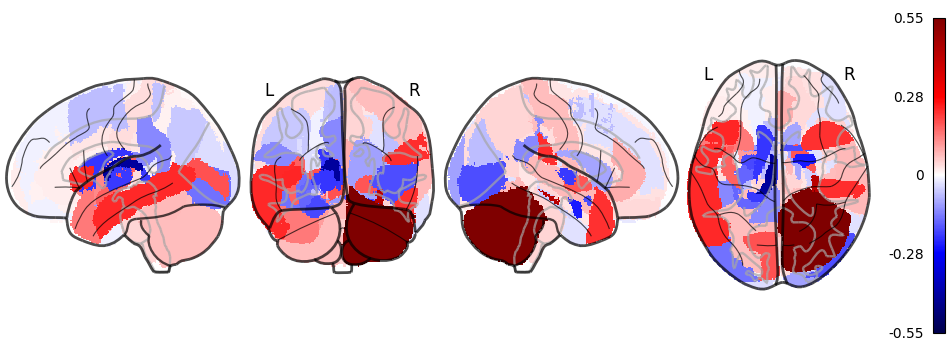
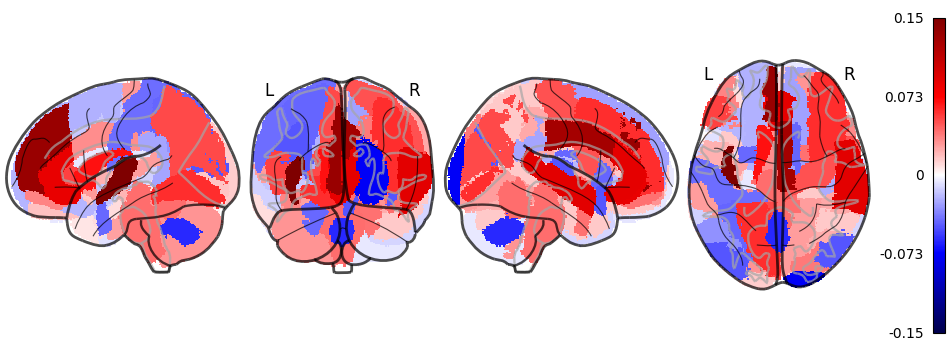
Readme updates and required data files

diff --git a/run_classification.py b/run_classification.py
@@ -563,15 +563,15 @@ def main():
     parser.add_argument(
         "--model", 
         required=False, 
-        default="extratrees",
-        choices=["lgbm", "extratrees"], 
-        help="Model family to load")
+        default="lgbm",
+        choices=["lgbm",], 
+        help="Model family to load (for now only lgbm works)")
     parser.add_argument(
         "--GM_thrs", 
         required=False, 
         default=False,
         type=str2bool, 
-        help="Use thresholded GM values (True/False)")
+        help="Use thresholded GM values (True/False). Should match the input csv if subject-per-row format.")
     parser.add_argument(
         "--thrs_target",
         required=False,

diff --git a/README.md b/README.md
@@ -1,165 +1,113 @@
-# Project README
+# Neurodegeneration Classification Pipeline
 
-Minimal, functional docs for the **current** scripts.
+This repository exposes a light MLOps pipeline for predicting Alzheimer’s disease probability from region-level volumetric CSVs and producing SHAP-based explanations. Two entry points matter:
 
----
+* `run_classification.py` – loads a pretrained classifier, aligns features, predicts the AD probability, and writes the full set of artefacts needed for downstream inference.
+* `make_shap_graphs.py` – regenerates SHAP glass-brain and waterfall plots from the saved prediction folders.
 
-## 1) Setup (venv + requirements)
-
-```bash
-python3.12 -m venv .venv
-# macOS/Linux
-source .venv/bin/activate
-python -V # should print 3.12.x
-
-python -m pip install -U pip setuptools wheel
-pip install -r requirements.txt
-pip check
-```
-
-> Make sure you run the scripts from an activated virtual environment.
+Both scripts support either **region-per-row** CSVs (long format: one row per region) or **subject-per-row** CSVs (wide format) containing a `PR_number` column.
 
 ---
 
-## 2) Input CSV (per‑region rows for one individual)
+## Typical workflow
 
-An example file is provided at **`data/seg_example.csv`**. Each row is **one brain region** for the **same subject**.
+1. **Create and activate a Python 3.12 virtual environment**
+   ```bash
+   python3.12 -m venv .venv
+   source .venv/bin/activate  # macOS/Linux
+   python -V                  # should print 3.12.x
 
-Required columns:
+   pip install -U pip setuptools wheel
+   pip install -r requirements.txt
+   ```
 
-* `name` — region name (string)
-* `index` — region index / id (int)
-* `GMvalues_unthresholded` — numeric value per region (float)
-* `GMvalues_thresholded` — numeric value per region (float)
+2. **Run the classifier**
+   ```bash
+   python run_classification.py \
+     --input_csv data/seg_example.csv \
+     --model lgbm \
+     --GM_thrs True \
+     --thrs_target youden \
+     --output_folder output_pred \
+     --overwrite
+   ```
+   * Region-per-row CSVs (`name`, `index`, `GMvalues_unthresholded`, `GMvalues_thresholded`) generate `output_pred/PRxxxx_ID_<model>_<thrs|unthrs>` automatically (e.g. `sPR04383_NS300459-...` → `PR04383_NS300459_lgbm_unthrs`).
+   * Subject-per-row CSVs (wide format) reuse the value in `PR_number` for the folder name. If nothing that looks like `PR12345_ID` is found, the folder becomes `unnamed_<model>_<suffix>`.
+   * `--overwrite` clears any existing folder before writing. Without it, suffixes `_0`, `_1`, … are appended to avoid collisions.
 
-`run_classification.py` will select the appropriate GM column based on `--GM_thrs`.
+3. **Regenerate SHAP plots**
+   ```bash
+   # single folder
+   python make_shap_graphs.py --pred_folder output_pred/PR04383_NS300459_lgbm_unthrs
 
----
-
-## 3) Script: `run_classification.py`
-
-Loads a **pretrained model family** and produces a prediction for the provided subject‑level per‑region CSV.
-
-### Arguments (current)
-
-```python
-parser.add_argument(
-    "--input_csv",
-    required=True,
-    type=str,
-    help="Path to subject per-region CSV"
-)
-parser.add_argument(
-    "--output_folder",
-    required=False,
-    type=str,
-    default="output_pred",
-    help="Directory to write outputs (created as output_pred if missing)"
-)
-parser.add_argument(
-    "--model",
-    required=True,
-    choices=["lgbm", "extratrees"],
-    help="Model family to load"
-)
-parser.add_argument(
-    "--GM_thrs",
-    required=True,
-    type=str2bool,
-    help="Use thresholded GM values (True/False)"
-)
-parser.add_argument(
-    "--thrs_target",
-    required=True,
-    choices=["youden", "sensitivity", "f1"],
-    help="Which precomputed classification threshold to use."
-)
-```
-
-### Example (pick one combination)
-
-```bash
-python run_classification.py \
-  --input_csv data/seg_example.csv \
-  --model lgbm \
-  --GM_thrs True \
-  --thrs_target youden \
-  --output_folder output_pred
-```
-
-### Output
-
-Writes prediction artifacts into `--output_folder` (default `output_pred`).
+   # batch over all prediction folders
+   python make_shap_graphs.py --pred_folder output_pred
+   ```
+   Glass-brain and waterfall PNGs land directly in each prediction folder (existing plots are overwritten).
 
 ---
 
-## 4) Script: `make_shap_graphs.py`
+## `run_classification.py`
 
-Generates SHAP visualizations from the **prediction folder** produced by `run_classification.py` (and the same per‑region CSV schema).
+### CLI summary
 
-### Arguments (current)
+| Argument | Default | Notes |
+|----------|---------|-------|
+| `--input_csv` | **required** | Region-per-row CSV **or** subject-per-row CSV. |
+| `--model` | `lgbm` | Only LightGBM is currently supported; flag remains for forward compatibility. |
+| `--GM_thrs` | `False` | Boolean selector for thresholded GM (`True` → `GMvalues_thresholded`, `False` → `GMvalues_unthresholded`). |
+| `--thrs_target` | `youden` | Threshold strategy: `youden`, `sensitivity`, or `f1`. |
+| `--output_folder` | `output_pred` | Base directory for subject folders. |
+| `--overwrite` | `False` | Clears any existing subject folder before writing when set. |
 
-```python
-parser.add_argument(
-    "--pred_folder",
-    required=False,
-    default="output_pred",
-    type=str,
-    help="Path to prediction folder from run_classification script"
-)
-parser.add_argument(
-    "--output_folder",
-    required=False,
-    type=str,
-    default="output_pred",
-    help="Directory to write outputs (created as output_pred if missing)"
-)
-parser.add_argument(
-    "--top_k",
-    required=False,
-    type=int,
-    default=10,
-    help="How many features to show in the waterfall plot (by |SHAP|)."
-)
-```
+### Behaviour highlights
 
-### Outputs
-
-Saved to `--output_folder`:
-
-* `shap_glass_brain.png` — Nilearn **glass‑brain** visualization colored by SHAP values.
-* `shape_waterfall.png` — SHAP **waterfall** plot (top‑K features by |SHAP|).
+* Automatically aligns features and records missing/extra columns inside `prediction.json`.
+* Output naming convention: `PRxxxx_ID_<model>_<thrs|unthrs>` derived from the filename / `PR_number`; falls back to `unnamed_...`.
+* Artefacts include `prediction.json`, `X_new.csv`, SHAP CSVs (`shap_transformed`, `shap_original`, `shap_original_long`), and a `merged_row.csv` combining raw values + SHAP contributions + probability.
+* SHAP outputs are stored in logit space and the waterfall metadata reports logit totals, probabilities, and thresholds.
 
 ---
 
-## 5) Typical workflow
+## `make_shap_graphs.py`
 
-1. Prepare your per‑region CSV (or use `data/seg_example.csv`).
+### CLI summary
 
-2. Run classification (example):
+| Argument | Required | Description |
+|----------|----------|-------------|
+| `--pred_folder` | optional (default `output_pred`) | Accepts a single prediction folder **or** a directory containing multiple subfolders with `shap_original_long.csv`. |
+| `--top_k` | optional (default `10`) | Number of top-|SHAP| features shown in the waterfall plot; the remainder are aggregated into "others". |
 
-```bash
-python run_classification.py \
-  --input_csv data/seg_example.csv \
-  --model lgbm \
-  --output_folder output_pred
-```
+### Behaviour highlights
 
-3. Generate SHAP figures:
-
-```bash
-python make_shap_graphs.py \
-  --pred_folder output_pred \
-  --output_folder output_pred \
-  --top_k 10
-```
-![Shap glass brain](figs/shap_glass_brain.png)
-![Shap waterfall](figs/shap_waterfall.png)
+* Automatically maps region names back to Neuromorphometrics atlas indices using `data/roi_rename_map.csv` and `data/neuromorphometrics.csv`. Regions lacking a recognised index are skipped with a warning.
+* Both plots (`shap_glass_brain.png`, `shap_waterfall.png`) are regenerated in each prediction folder. The waterfall shading marks the logit-transformed decision threshold (left of the line bathed in light blue → CN territory, right in light red → AD territory).
+* Works seamlessly across all prediction folders when pointing `--pred_folder` to `output_pred`.
 
 ---
 
-## 6) Notes
+## CSV expectations
 
-* `--GM_thrs True` uses `GMvalues_thresholded`; `False` uses `GMvalues_unthresholded`.
-* Keep the CSV schema exactly as shown; scripts expect these column names.
-* `--pred_folder` should point to the folder produced by `run_classification.py`.
+* **Region-per-row (long) format**
+  | Column | Description |
+  |--------|-------------|
+  | `name` | Region name (string; spaces allowed) |
+  | `index` | Atlas index (int). Optional: will be reconstructed for plotting if missing. |
+  | `GMvalues_unthresholded` | Numeric value per region |
+  | `GMvalues_thresholded` | Numeric value per region |
+
+* **Subject-per-row (wide) format**
+  | Column | Description |
+  |--------|-------------|
+  | `PR_number` | Subject identifier used to name prediction folders |
+  | other columns | Feature names must match the model training schema |
+
+Keep column names exactly as shown. The scripts infer feature alignment automatically.
+
+---
+
+## Notes
+
+* Always run the scripts from the activated virtual environment to ensure LightGBM, SHAP, and dependencies are available.
+* `optuna_ml_ad.db` and the `models/` directory hold the tuned artefacts; they are expected to be present before invoking `run_classification.py`.
+* Example outputs appear under `output_pred/` after running the workflow, ready for inspection or for the SHAP plotting script.
